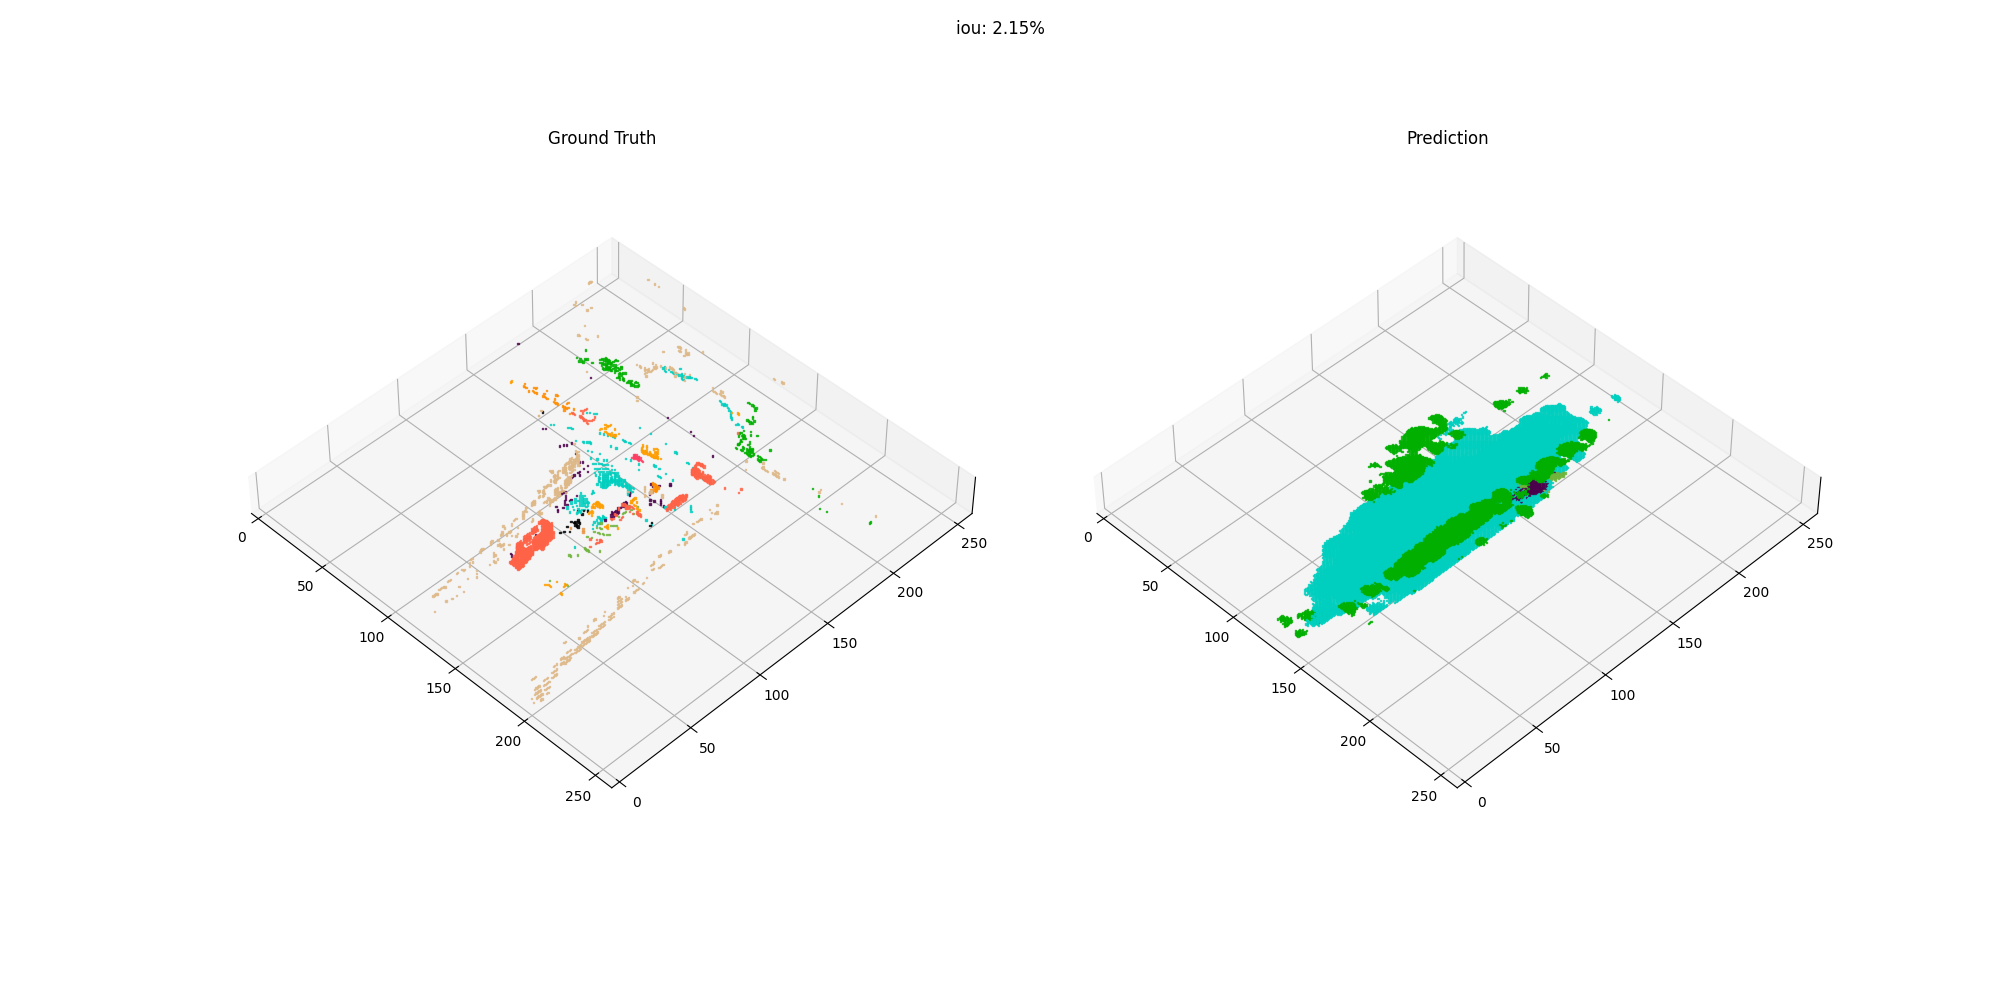
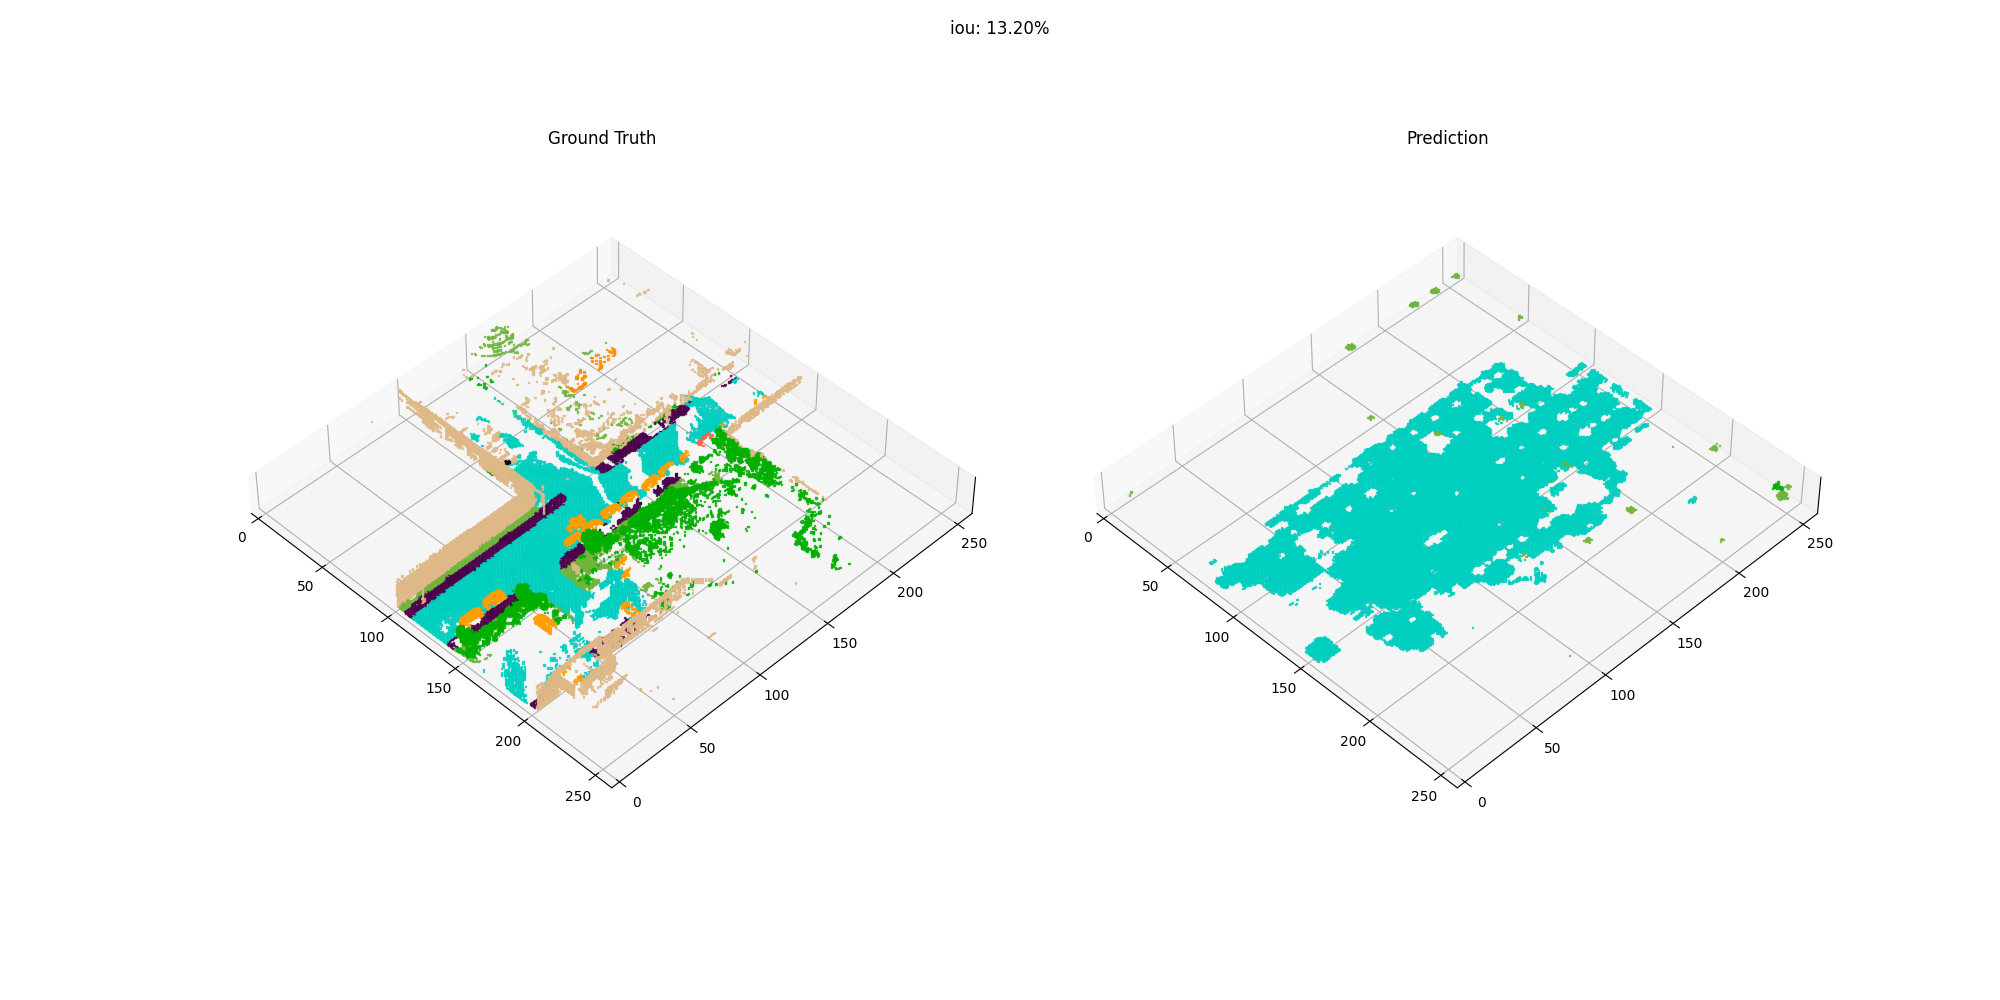
update

diff --git a/occupancy/pipelines/occ_transformer.py b/occupancy/pipelines/occ_transformer.py
@@ -80,41 +80,21 @@ class ImageAugmentation(nn.Module):
 
 
 class MultiViewImageToVoxelPipelineInput:
-    images: Tensor
     occupancy: Tensor
 
-    def __init__(self, images: Tensor, occupancy: Tensor):
-        self.images = images
+    def __init__(self, occupancy: Tensor):
         self.occupancy = occupancy
 
     @classmethod
     def from_nuscenes_dataset_item(
         cls,
-        batch: NuScenesDatasetItem,
+        batch: Tensor,
         dtype: torch.dtype = torch.float32,
         device: str | torch.device = "cpu",
     ) -> "MultiViewImageToVoxelPipelineInput":
-        images: NuScenesImage = torch.stack(
-            [
-                batch.cam_front_left,
-                batch.cam_front,
-                batch.cam_front_right,
-                batch.cam_back_right,
-                batch.cam_back,
-                batch.cam_back_left,
-            ],
-            dim=1,
-        )
-        images.data = images.data.to(device=device, dtype=dtype, non_blocking=True)
-        images.intrinsic = images.intrinsic.to(device=device, dtype=dtype, non_blocking=True)
-        images.rotation = images.rotation.to(device=device, dtype=dtype, non_blocking=True)
-        images.translation = images.translation.to(device=device, dtype=dtype, non_blocking=True)
-        batch.lidar_top.location = batch.lidar_top.location.to(device=device, dtype=dtype, non_blocking=True)
-        batch.lidar_top.attribute = batch.lidar_top.attribute.to(device=device, non_blocking=True)
-        occupancy = batch.lidar_top.occupancy.to(device=device, dtype=dtype, non_blocking=True)
+        occupancy = batch.to(device=device, dtype=dtype, non_blocking=True)
 
         model_input = cls(
-            images=images.data,
             occupancy=occupancy,
         )
         return model_input
@@ -123,7 +103,6 @@ class MultiViewImageToVoxelPipelineInput:
 class MultiViewImageToVoxelPipelineOutput:
     prediction: Tensor
     ground_truth: Tensor
-    images: Tensor
     loss: Optional[Tensor] = None
     pos_weight: Optional[Tensor] = None
 
@@ -154,13 +133,11 @@ class MultiViewImageToVoxelPipelineOutput:
         self,
         prediction: Tensor,
         ground_truth: Tensor,
-        images: Tensor,
         loss: Optional[Tensor] = None,
         pos_weight=None,
     ):
         self.prediction = prediction
         self.ground_truth = ground_truth
-        self.images = images
         self.loss = loss
         self.pos_weight = pos_weight
 
@@ -259,43 +236,33 @@ class MultiViewImageToVoxelModel(nn.Module):
     ):
         super().__init__()
         self.in_channels = in_channels
-        self.hidden_size = 2048
+        self.hidden_size = 1024
         self.radius_channels = radius_channels
-        self.patch_embeds = UnetEncoder2d(in_channels, self.hidden_size, self.hidden_size // (2**2), 2, 2)
-        self.position_embeds = nn.Embedding(16 * 16 * 2, self.hidden_size)
-        self.position_norm = RMSNorm(self.hidden_size)
-        self.register_buffer("position_ids", torch.arange(0, 10000, requires_grad=False).view(1, -1))
+        self.occ_proj = nn.Linear(64, self.hidden_size)
         self.encoder = Transformer(self.hidden_size, 8, self.hidden_size // 128, 128)
-        self.encoder_out_norm = RMSNorm(self.hidden_size)
-        self.encoder_out_proj = nn.Linear(self.hidden_size, self.hidden_size)
-        self.cond_proj = nn.Linear(self.hidden_size // 2, self.hidden_size)
-        self.transformer = ConditionalTransformer(self.hidden_size, 8, self.hidden_size // 128, 128)
+        self.position_embeds = nn.Embedding(16 * 16 * 2, self.hidden_size)
+        self.register_buffer("position_ids", torch.arange(0, 10000, requires_grad=False).view(1, -1))
+        self.transformer = ConditionalTransformer(self.hidden_size, 16, self.hidden_size // 128, 128)
         self.out_norm = SpatialRMSNorm(self.hidden_size)
         self.out_conv = nn.Conv3d(self.hidden_size, out_channels, 1)
         self.nonlinear = nn.SiLU(True)
         self._last_grid = None
 
-    def forward(self, multiview: Tensor, out_shape: Tuple[int, int, int]) -> Tensor:
-        multiview = torch.cat(multiview.unbind(1), dim=-1)
-        multiview_latent = self.patch_embeds(multiview)
-        multiview_dist = self.encoder(multiview_latent.flatten(2).transpose(-1, -2))
-        multiview_dist = self.encoder_out_proj(self.nonlinear(self.encoder_out_norm(multiview_dist)))
-        multiview_dist = GaussianDistribution.from_latent(multiview_dist.transpose(-1, -2), 0.1)
-        multiview_sample = multiview_dist.sample().transpose(-1, -2)
-        multiview_sample = self.cond_proj(multiview_sample)
+    def forward(self, occ_latent: Tensor, out_shape: Tuple[int, int, int]) -> Tensor:
+        occ_latent = occ_latent.flatten(2).transpose(-1, -2)
         n_pos = out_shape[0] * out_shape[1] * out_shape[2]
-        pos_embeds = self.position_embeds(self.position_ids[:, :n_pos]).expand(multiview_sample.shape[0], -1, -1)
-        pos_embeds = self.position_norm(pos_embeds)
+        pos_embeds = self.position_embeds(self.position_ids[:, :n_pos]).expand(occ_latent.shape[0], -1, -1)
+        occ_latent = self.occ_proj(occ_latent) + pos_embeds
+        occ_latent = self.encoder(occ_latent)
+        occ_latent = occ_latent[:, torch.randperm(occ_latent.shape[1])]
+
         occ_latent = (
-            self.transformer(pos_embeds, multiview_sample)
-            .transpose(-1, -2)
-            .view(multiview_sample.shape[0], -1, *out_shape)
+            self.transformer(pos_embeds, occ_latent).transpose(-1, -2).view(occ_latent.shape[0], -1, *out_shape)
         )
         occ_latent = self.out_norm(occ_latent)
         occ_latent = self.nonlinear(occ_latent)
         output = self.out_conv(occ_latent)
-        kl_loss = multiview_dist.kl_loss
-        return output, kl_loss
+        return output
 
 
 class MultiViewImageToVoxelPipeline(nn.Module):
@@ -348,16 +315,9 @@ class MultiViewImageToVoxelPipeline(nn.Module):
         image_sample = torch.cat([torch.cat(chk, dim=-2) for chk in image_sample], dim=-1)
         return image_sample.detach()
 
-    def decode(self, images, voxel_shape) -> Tensor:
-        batch_size = images.shape[0]
-        num_images = images.shape[1]
-        with torch.no_grad():
-            multiview_sample = self.prepare_image(images.flatten(0, 1))
-
-        multiview_latent, kl_loss = self.decoder(
-            multiview_sample.view(batch_size, num_images, *multiview_sample.shape[1:]), voxel_shape
-        )
-        return multiview_latent, kl_loss
+    def decode(self, occ_latent, voxel_shape) -> Tensor:
+        occ_latent = self.decoder(occ_latent, voxel_shape)
+        return occ_latent
 
     def __call__(self, input: MultiViewImageToVoxelPipelineInput) -> MultiViewImageToVoxelPipelineOutput:
         return super().__call__(input)
@@ -417,31 +377,32 @@ class MultiViewImageToVoxelPipeline(nn.Module):
 
     def forward(self, input: MultiViewImageToVoxelPipelineInput) -> MultiViewImageToVoxelPipelineOutput:
         if self.training:
+            occ_latent = None
             with torch.no_grad():
-                input.images.data = self.image_augmentation(input.images.data.float()).type_as(input.images.data)
-        model_output, kl_loss = self.decode(input.images, (16, 16, 2))
-        pred_occ = self.voxel_autoencoderkl.decode(model_output)
+                occ_latent = self.voxel_autoencoderkl.encode(input.occupancy).sample()
+        model_output = self.decode(occ_latent, (16, 16, 2))
+        with torch.no_grad():
+            pred_occ = self.voxel_autoencoderkl.decode(model_output)
         pos_weight = self.influence_radial_weight(input.occupancy)
-        if input.occupancy.shape[1] == 1:
-            loss = F.binary_cross_entropy_with_logits(
-                pred_occ,
-                input.occupancy,
-                pos_weight=torch.tensor(3.2, device=pred_occ.device, dtype=pred_occ.dtype),
-                reduction="none",
-            )
-        else:
-            loss = F.cross_entropy(
-                pred_occ,
-                input.occupancy.argmax(dim=1),
-                reduction="none",
-                weight=pos_weight.type_as(pred_occ),
-                ignore_index=1,
-            )
-        loss = loss + kl_loss.mean() * 0.0001
+        loss = F.mse_loss(occ_latent, model_output)
+        # if input.occupancy.shape[1] == 1:
+        #    loss = F.binary_cross_entropy_with_logits(
+        #        pred_occ,
+        #        input.occupancy,
+        #        pos_weight=torch.tensor(3.2, device=pred_occ.device, dtype=pred_occ.dtype),
+        #        reduction="none",
+        #    )
+        # else:
+        #    loss = F.cross_entropy(
+        #        pred_occ,
+        #        input.occupancy.argmax(dim=1),
+        #        reduction="none",
+        #        weight=pos_weight.type_as(pred_occ),
+        #        ignore_index=1,
+        #    )
         return MultiViewImageToVoxelPipelineOutput(
             pred_occ,
             input.occupancy,
-            input.images,
             loss,
             pos_weight,
         )
@@ -465,7 +426,7 @@ class MultiViewImageToVoxelPipeline(nn.Module):
             label = voxel.argmax(dim=1)
             population = torch.bincount(label.flatten(), minlength=18).float()
             weight = torch.pow(torch.numel(label) / population * 4 * math.pi / 3, 1 / 3)
-            weight[0] = weight[0] / 4
+            # weight[0] = weight[0]
             return weight
 
 
@@ -509,7 +470,10 @@ def config_model(args):
 
 
 def config_dataloader(args):
-    dataset = NuScenesDataset(args.data_dir, binary=args.num_classes == 1)
+    if args.num_classes == 1:
+        dataset = NuScenesMixOccupancyDataset(args.data_dir)
+    else:
+        dataset = NuScenesOccupancyDataset(args.data_dir, binary=args.num_classes == 1)
     index = list(range(len(dataset)))[2000:]
     dataset = Subset(dataset, index)
     sampler = DistributedSampler(dataset) if args.ddp else None

diff --git a/occupancy/pipelines/train.py b/occupancy/pipelines/train.py
@@ -20,6 +20,8 @@ import threading
 
 from trimesh.voxel.ops import matrix_to_marching_cubes
 from torch.optim import swa_utils
+
+from occupancy.pipelines import occ_transformer
 from . import autoencoderkl_3d, panoramic2voxel, diffusion3d
 
 torch.backends.cudnn.enabled = True
@@ -92,6 +94,8 @@ def config_model(args: argparse.Namespace) -> nn.Module:
             return panoramic2voxel.config_model(args)
         case "diffusion3d":
             return diffusion3d.config_model(args)
+        case "occ_transformer":
+            return occ_transformer.config_model(args)
 
 
 def config_dataloader(args: argparse.Namespace) -> DataLoader:
@@ -102,6 +106,8 @@ def config_dataloader(args: argparse.Namespace) -> DataLoader:
             return panoramic2voxel.config_dataloader(args)
         case "diffusion3d":
             return diffusion3d.config_dataloader(args)
+        case "occ_transformer":
+            return occ_transformer.config_dataloader(args)
 
 
 def to_human_readable(num: int) -> str:
@@ -271,10 +277,10 @@ def train(
                     output, mean_loss = forward()
                     nn.utils.clip_grad_norm_(model.parameters(), 1.0)
                     optimizer.step()
-                    scheduler.step()
-                    optimizer.zero_grad()
                     if ema_model is not None:
                         ema_model.update_parameters(model)
+                    scheduler.step()
+                    optimizer.zero_grad()
 
                 pbar.set_description(
                     f"Loss: {mean_loss.item():.4f}, LR: {scheduler.get_last_lr()[0]:.3e}, Grad. Step: {step // args.grad_accum}, Epoch: {ep}"

diff --git a/occupancy/datasets/nuscenes.py b/occupancy/datasets/nuscenes.py
@@ -201,9 +201,7 @@ class NuScenesPointCloud:
         points, attrs, occ = cls._load_full_size_occupancy(path, binary, rotate)
         if scale_factor is not None and scale_factor != 1.0:
             if binary:
-                occ = F.interpolate(
-                    occ.float(), scale_factor=scale_factor, mode="trilinear", align_corners=True
-                ).bool()
+                occ = F.interpolate(occ.float(), scale_factor=scale_factor, mode="trilinear", align_corners=True).bool()
             else:
                 occ = occ.float()
                 occ = F.interpolate(occ, scale_factor=0.5, mode="trilinear", align_corners=True).argmax(dim=1)
@@ -312,6 +310,7 @@ class NuScenesOccupancyDataset(Dataset):
         rot = R.from_euler("z", random.randint(0, 360), degrees=True).as_matrix()
         rot = torch.from_numpy(rot).to(torch.float32)
         voxel = NuScenesPointCloud._load_occupancy(self._paths[index], self.binary, self.scale_factor, rot)[-1][0]
+        voxel = MemmapTensor.from_tensor(voxel).as_tensor()
         return voxel
 
 
@@ -333,6 +332,7 @@ class NuScenesMixOccupancyDataset(Dataset):
         y = random.randint(0, shape[1] - 1)
         z = random.randint(0, shape[2] - 1)
         voxel[:, x:, y:, z:] = (voxel[:, x:, y:, z:] + other[:, x:, y:, z:]) / 2
+        voxel = MemmapTensor.from_tensor(voxel).as_tensor()
         return voxel
 
 
